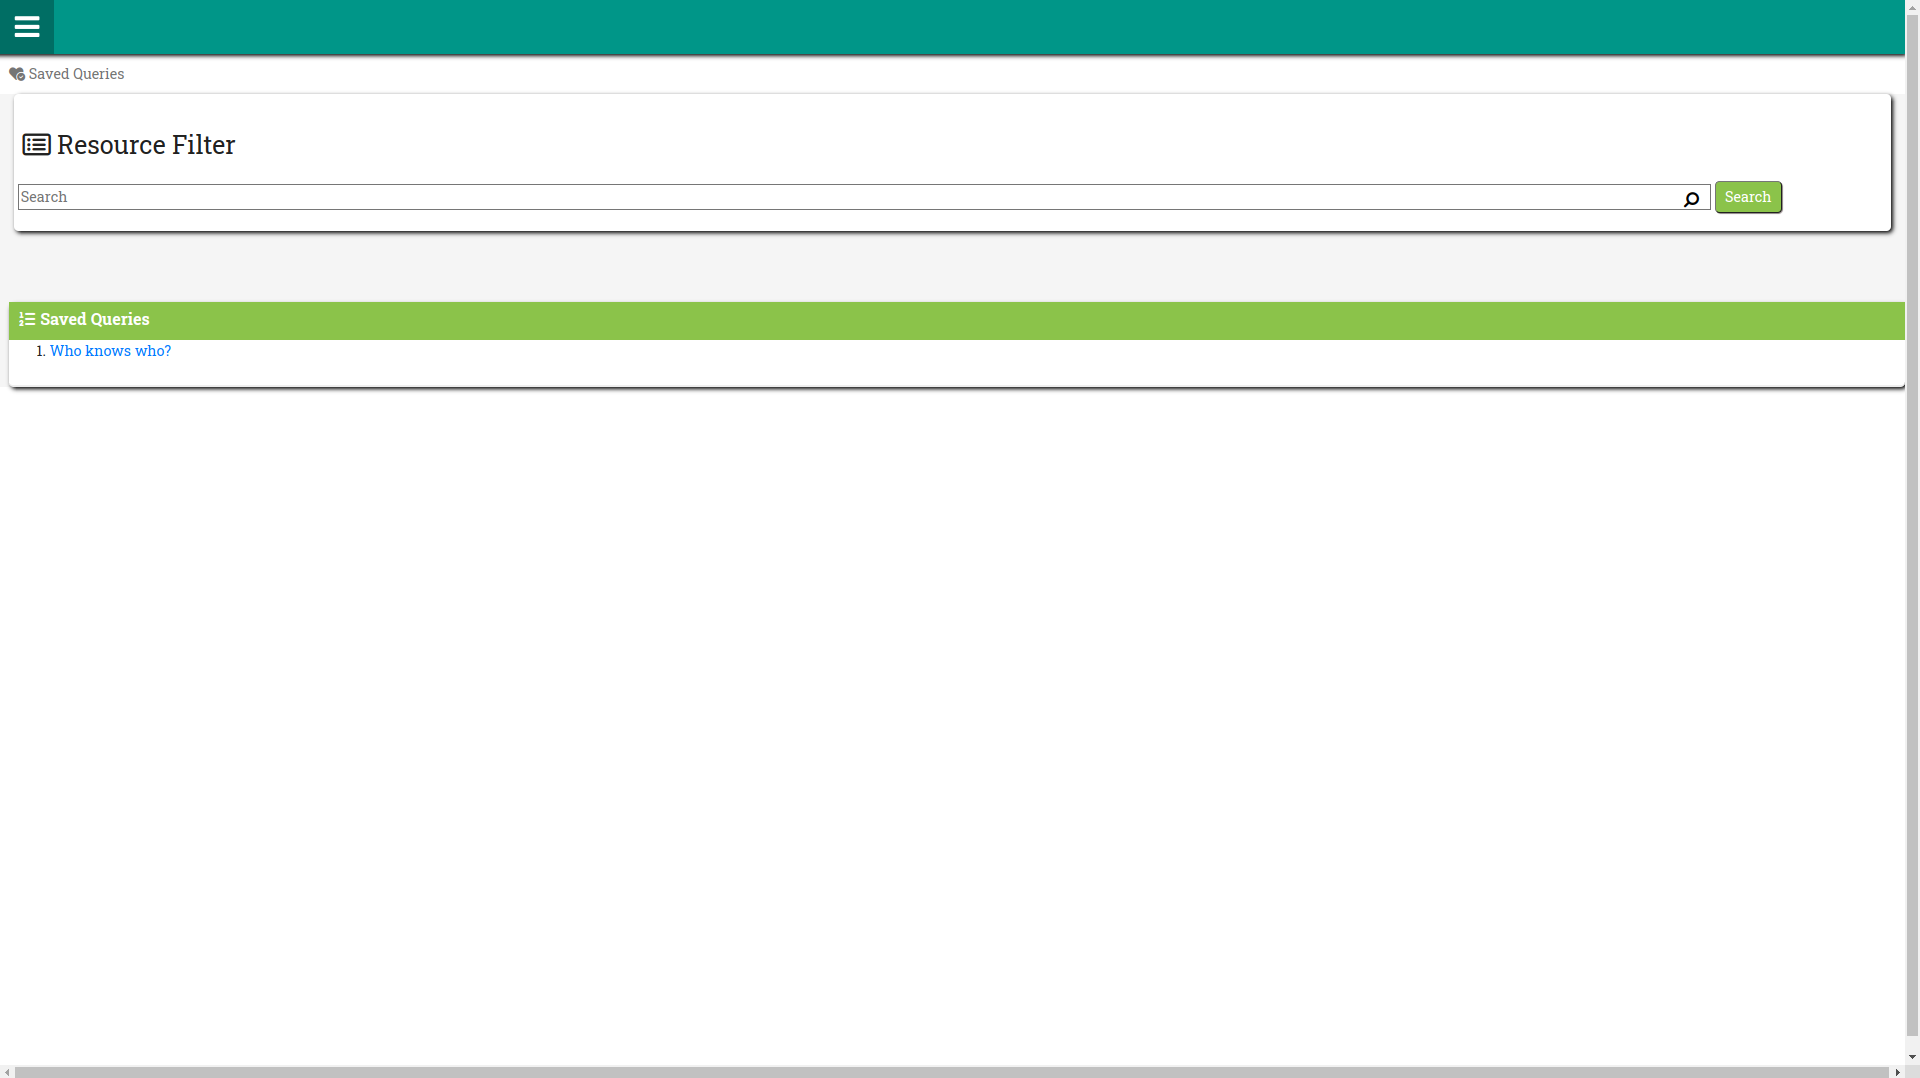
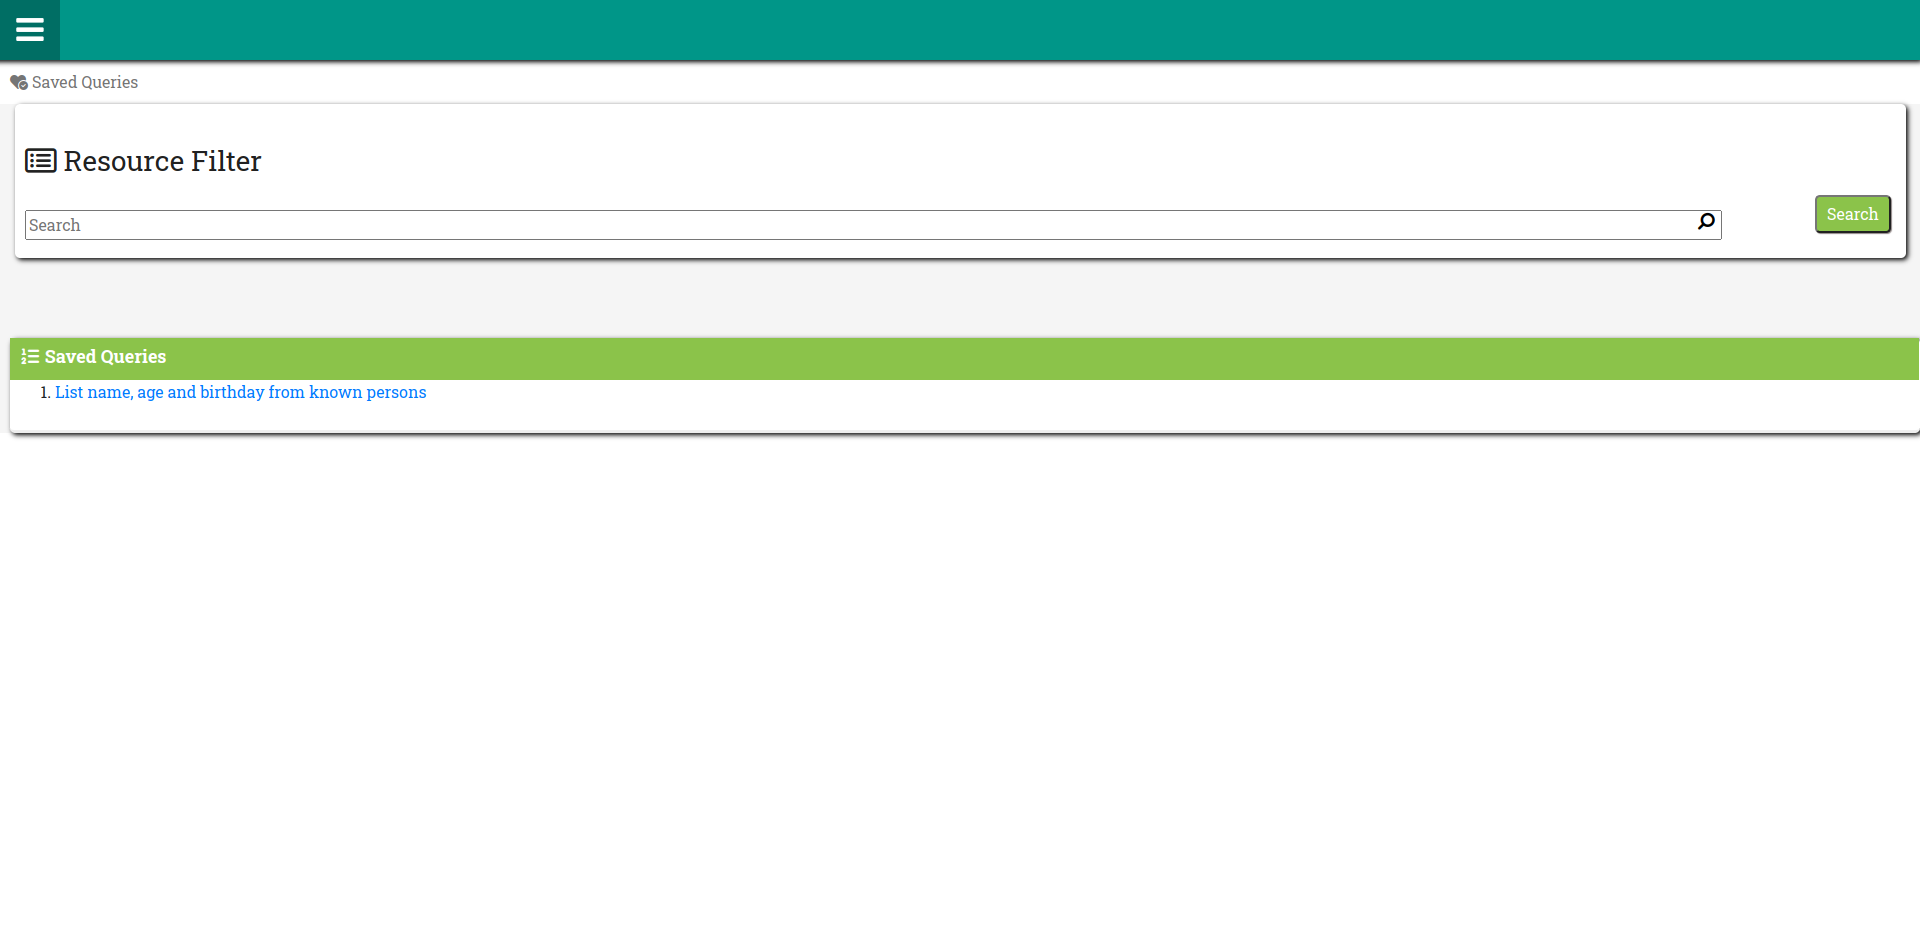
filters types on saved queries

Changed region(s): [[0.0, 0.0, 1.0, 0.9533], [0.0, 0.9841, 1.0, 1.0]]

diff --git a/templates/list_itens_saved.html b/templates/list_itens_saved.html
@@ -72,20 +72,27 @@
                         <div id="search_bar" class="alt">
                             <h3><i class="fa-regular fa-rectangle-list"></i> Query Filters</h3>
                             <form method="get" action="0#">
-                              {%for tuple in item['filters_vars']%}                           
-                              <div id="filter_{{tuple[0]}}">
-                                <label for="{{tuple[0]}}">{{tuple[0]}}:</label>
-                                {%if tuple[1] == "numeric"%}
-                                    <input type="text" name="{{tuple[0]}}_min" id="filter_{{tuple[0]}}_min" {%if filters[tuple[0]+"_min"] != None and filters[tuple[0]+"_min"] != 'None' and filters[tuple[0]+"_min"] != '' %}value = "{{filters[tuple[0]+'_min']}}"{%endif%}> To <input type="text" name="{{tuple[0]}}_max" id="filter_{{tuple[0]}}_max" {%if filters[tuple[0]+"_max"] != None and filters[tuple[0]+"_max"] != 'None' and filters[tuple[0]+"_max"] != '' %}value = "{{filters[tuple[0]+'_max']}}"{%endif%}>
-                                {%elif tuple[1] == "date"%}
-                                <input type="text" name="{{tuple[0]}}_min" id="filter_{{tuple[0]}}_min" {%if filters[tuple[0]+"_min"] != None and filters[tuple[0]+"_min"] != 'None' and filters[tuple[0]+"_min"] != '' %}value = "{{filters[tuple[0]+'_min']}}"{%endif%}> To <input type="text" name="{{tuple[0]}}_max" id="filter_{{tuple[0]}}_max" {%if filters[tuple[0]+"_max"] != None and filters[tuple[0]+"_max"] != 'None' and filters[tuple[0]+"_max"] != '' %}value = "{{filters[tuple[0]+'_max']}}"{%endif%}>
-                                {%else%}
-                                <input type="text" name="{{tuple[0]}}" id="filter_{{tuple[0]}}" placeholder="Filter..." {%if filters[tuple[0]] != None and filters[tuple[0]] != 'None' and filters[tuple[0]] != '' %}value = "{{filters[tuple[0]]}}"{%endif%} />
-                                {%endif%}
-                              </div>
+                                <table>
 
-                              {%endfor%}
-                              <input id="bt_search" type="submit" value="Search"/><br/>
+                                
+                              {%for tuple in item['filters_vars']%}   
+                                <tr>
+                                    <div id="filter_{{tuple[0]}}">
+                                        <td><label for="{{tuple[0]}}">{{tuple[0]}}:</label></td>
+                                        <td>
+                                            {%if tuple[1] == "numeric"%}
+                                                <input type="number" placeholder="minimum limit" name="{{tuple[0]}}_min" id="filter_{{tuple[0]}}_min" {%if filters[tuple[0]+"_min"] != None and filters[tuple[0]+"_min"] != 'None' and filters[tuple[0]+"_min"] != '' %}value = "{{filters[tuple[0]+'_min']}}"{%endif%}> To <input type="number" placeholder="maximum limit" name="{{tuple[0]}}_max" id="filter_{{tuple[0]}}_max" {%if filters[tuple[0]+"_max"] != None and filters[tuple[0]+"_max"] != 'None' and filters[tuple[0]+"_max"] != '' %}value = "{{filters[tuple[0]+'_max']}}"{%endif%}>
+                                            {%elif tuple[1] == "date"%}
+                                            <input type="date" name="{{tuple[0]}}_min" id="filter_{{tuple[0]}}_min" {%if filters[tuple[0]+"_min"] != None and filters[tuple[0]+"_min"] != 'None' and filters[tuple[0]+"_min"] != '' %}value = "{{filters[tuple[0]+'_min']}}"{%endif%}> To <input type="date" name="{{tuple[0]}}_max" id="filter_{{tuple[0]}}_max" {%if filters[tuple[0]+"_max"] != None and filters[tuple[0]+"_max"] != 'None' and filters[tuple[0]+"_max"] != '' %}value = "{{filters[tuple[0]+'_max']}}"{%endif%}>
+                                            {%else%}
+                                            <input type="text" name="{{tuple[0]}}" id="filter_{{tuple[0]}}" placeholder="Filter..." {%if filters[tuple[0]] != None and filters[tuple[0]] != 'None' and filters[tuple[0]] != '' %}value = "{{filters[tuple[0]]}}"{%endif%} />
+                                            {%endif%}
+                                        </td>
+                                    </div>
+                                </tr>                        
+                                {%endfor%}
+                            </table>
+                              <input id="bt_search" type="submit" value="Filter"/><br/>
                             </form>
                           </div>
                     

diff --git a/static/js/list_itens_saved.js b/static/js/list_itens_saved.js
@@ -12,10 +12,10 @@ const data = d3.json("/query_saved/"+id+"/"+page+filters).then(function(dataR){
 		let row = '<tr>';
 		for(field in d){
 			if(field != "graphdb_url")
-			if(d[field].includes('http://') || d[field].includes('https://'))
-				row += '<td><a href="/browser?uri='+d[field]+'">'+d[field]+"</a></td>";
-			else
-				row += '<td>'+d[field]+'</td>';	
+				if(d[field].includes('http://') || d[field].includes('https://'))
+					row += '<td><a href="/browser?uri='+d[field]+'">'+d[field]+"</a></td>";
+				else
+					row += '<td>'+d[field]+'</td>';	
 		}
 		row += '<td><a target="_blank" href="'+d.graphdb_url+'">View</a></td>';
 		row += "</tr>";

diff --git a/static/css/style.css b/static/css/style.css
@@ -405,3 +405,13 @@ td, th{
 	moz-border-radius: 5px 5px 5px 5px;
 	-webkit-border-radius: 5px 5px 5px 5px;
 }
+#search_bar{
+	padding: 5px;
+	overflow: hidden;
+}
+#search_bar #bt_search{
+	float: right;
+}
+#search_bar table{
+	width: auto;
+}

diff --git a/saved_queries.py b/saved_queries.py
@@ -7,17 +7,20 @@ ex = {
 }
 
 q = {
-    'description': """List name and age from known persons""",
+    'description': """List name, age and birthday from known persons""",
     'query': """
     PREFIX rdfs: <http://www.w3.org/2000/01/rdf-schema#>
     PREFIX rdf: <http://www.w3.org/1999/02/22-rdf-syntax-ns#>
     PREFIX ex: <http://www.example.lirb.com/> 
-    SELECT ?node ?name ?age WHERE{
-        ?node ex:hasName ?name;
-            ex:hasAge ?age.
+    SELECT ?node ?name ?age ?birthday WHERE{
+        ?node ex:hasName ?name.
+        OPTIONAL{ ?node ex:hasAge ?age1.}
+        BIND(COALESCE(?age1,"-") AS ?age)
+        OPTIONAL{ ?node ex:hasBirthday ?birthday1.}
+        BIND(COALESCE(?birthday1,"-") AS ?birthday)
     }ORDER BY ?node
     """,
-    'filters_vars':[["name","string"],["age","numeric"]],
+    'filters_vars':[["name","string"],["age","numeric"],["birthday","date"]],
     'uri_var':"node",
     'construct_query': """
     PREFIX rdfs: <http://www.w3.org/2000/01/rdf-schema#>

diff --git a/README.md b/README.md
@@ -28,6 +28,10 @@ LiRB uses simple and fast queries, being ideal for the browsing of massive or vi
    ![n-ary resource](https://github.com/CaioViktor/LiRB/blob/main/examples/nary_resource.png)
    4. Visual graph on GraphDB:
    ![Visual graph](https://github.com/CaioViktor/LiRB/blob/main/examples/resource_graph.png)
+   5. No expanding on sameAs links:
+   ![Visual graph](https://github.com/CaioViktor/LiRB/blob/main/examples/no_expansion_sameas.png)
+   6. Expanding on sameAs links:
+   ![Visual graph](https://github.com/CaioViktor/LiRB/blob/main/examples/expansion_sameas.png)
 3. Saved queries:
    1. List of saved queries:
     ![list](https://github.com/CaioViktor/LiRB/blob/main/examples/saved_queries.png)
